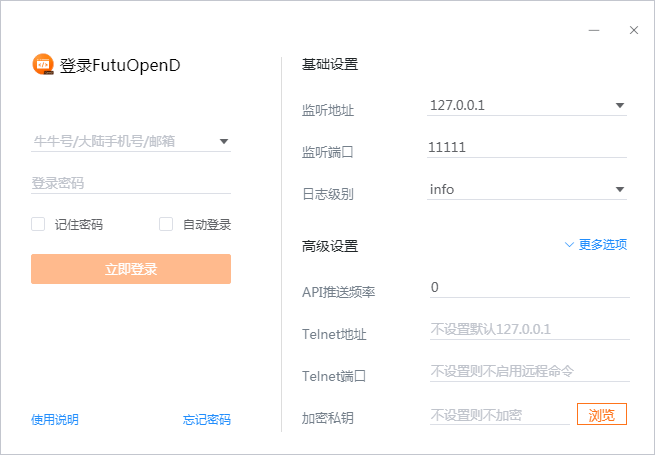
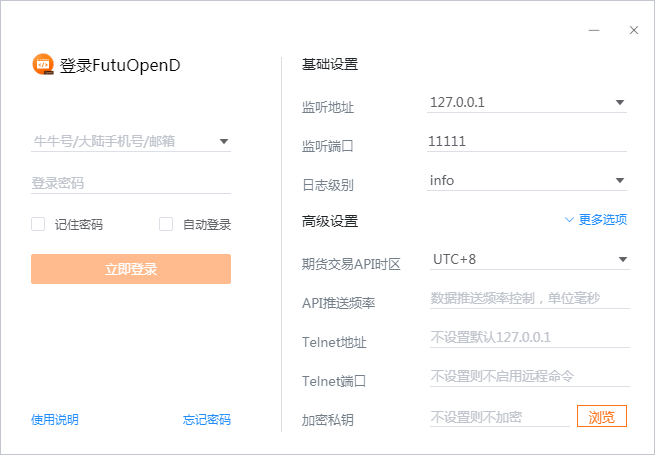
新增期货交易API时区说明

diff --git a/doc_maker/source/intro/FutuOpenDGuide.rst b/doc_maker/source/intro/FutuOpenDGuide.rst
@@ -70,6 +70,8 @@ FutuOpenD使用说明
 
 ----------------------------
   
+.. _opend-config:
+
 FutuOpenD配置
 --------------
 
@@ -81,29 +83,30 @@ FutuOpenD配置
 
   **配置项：**
   
-  ========================   =============================================================================================================================================================   ================================================
-  键值                       说明                                                                                                                                                            是否可选配置项
-  ========================   =============================================================================================================================================================   ================================================
-  ip                         监听地址                                                                                                                                                        是，不设置则默认127.0.0.1    
-  api_port                   API协议接收端口                                                                                                                                                 是，可以命令行指定
-  push_proto_type            API协议支持PB以及Json格式，PB：0，Json：1，推送类协议通过该配置决定包体格式                                                                                     是，不设置则默认PB格式
-  qot_push_frequency         API订阅数据推送频率控制，单位毫秒，目前不包括K线和分时                                                                                                          是，不设置则不限制频率
-  rsa_private_key            API协议RSA加密私钥（PKCS#1）文件绝对路径                                                                                                                        是，不设置则协议不加密
-  telnet_ip                  远程操作命令监听地址                                                                                                                                            是，不设置则默认127.0.0.1    
-  telnet_port                远程操作命令监听端口                                                                                                                                            是，不设置则不启用远程命令
-  login_account              登录帐号                                                                                                                                                        是，可以使用证书登录或命令行输入
-  login_pwd                  登录密码明文                                                                                                                                                    是，可以使用密文、证书登录或命令行输入
-  login_pwd_md5              登录密码密文（32位MD5加密16进制），密文明文都存在情况下，只使用密文                                                                                             是，可以使用明文、证书登录或命令行输入
-  log_level                  日志级别，可填no(无日志)，debug(最详细)，info(次详细)，warning，error，fatal                                                                                    是，默认info级别
-  simulate_trade             是否启用模拟交易，关闭模拟交易可节省少量资源使用，可填enable，disable                                                                                           是，默认启用
-  websocket_ip               API协议监听地址，可选127.0.0.1（监听来自本地的连接）以及0.0.0.0（监听来自所有网卡的连接）                                                                       是，不设置则默认127.0.0.1 
-  websocket_port             WebSocket服务监听端口                                                                                                                                           是，不设置则不启用该功能  
-  websocket_private_key      WebSocket证书私钥文件路径，私钥不可设置密码，不配置则不启用SSL，需要和证书同时配置                                                                              是，不设置则不启用SSL
-  websocket_cert             WebSocket证书文件路径，不配置则不启用SSL，需要和私钥同时配置                                                                                                    是，不设置则不启用SSL
-  websocket_key_md5          密钥密文（32位MD5加密16进制），用于JS接口连接时用于判断是否可信连接                                                                                             是，不设置则不做验证
-  price_reminder_push        是否接收到价提醒推送，0：不接收，1：接收（需在脚本中设置回调函数 set_handler_ )                                                                                 是，默认会推送
-  auto_hold_quote_right      被踢后是否自动抢权限？0：否，1：是，开启该选项时，OpenD在行情权限被抢后，会自动抢回。如果10秒内再次被抢，则其他终端获得最高行情权限（OpenD不会再抢）            是，默认会自动抢权限
-  ========================   =============================================================================================================================================================   ================================================
+  ===========================   =============================================================================================================================================================   ================================================
+  键值                          说明                                                                                                                                                            是否可选配置项
+  ===========================   =============================================================================================================================================================   ================================================
+  ip                            监听地址                                                                                                                                                        是，不设置则默认127.0.0.1    
+  api_port                      API协议接收端口                                                                                                                                                 是，可以命令行指定
+  push_proto_type               API协议支持PB以及Json格式，PB：0，Json：1，推送类协议通过该配置决定包体格式                                                                                     是，不设置则默认PB格式
+  qot_push_frequency            API订阅数据推送频率控制，单位毫秒，目前不包括K线和分时                                                                                                          是，不设置则不限制频率
+  rsa_private_key               API协议RSA加密私钥（PKCS#1）文件绝对路径                                                                                                                        是，不设置则协议不加密
+  telnet_ip                     远程操作命令监听地址                                                                                                                                            是，不设置则默认127.0.0.1    
+  telnet_port                   远程操作命令监听端口                                                                                                                                            是，不设置则不启用远程命令
+  login_account                 登录帐号                                                                                                                                                        是，可以使用证书登录或命令行输入
+  login_pwd                     登录密码明文                                                                                                                                                    是，可以使用密文、证书登录或命令行输入
+  login_pwd_md5                 登录密码密文（32位MD5加密16进制），密文明文都存在情况下，只使用密文                                                                                             是，可以使用明文、证书登录或命令行输入
+  log_level                     日志级别，可填no(无日志)，debug(最详细)，info(次详细)，warning，error，fatal                                                                                    是，默认info级别
+  simulate_trade                是否启用模拟交易，关闭模拟交易可节省少量资源使用，可填enable，disable                                                                                           是，默认启用
+  websocket_ip                  API协议监听地址，可选127.0.0.1（监听来自本地的连接）以及0.0.0.0（监听来自所有网卡的连接）                                                                       是，不设置则默认127.0.0.1 
+  websocket_port                WebSocket服务监听端口                                                                                                                                           是，不设置则不启用该功能  
+  websocket_private_key         WebSocket证书私钥文件路径，私钥不可设置密码，不配置则不启用SSL，需要和证书同时配置                                                                              是，不设置则不启用SSL
+  websocket_cert                WebSocket证书文件路径，不配置则不启用SSL，需要和私钥同时配置                                                                                                    是，不设置则不启用SSL
+  websocket_key_md5             密钥密文（32位MD5加密16进制），用于JS接口连接时用于判断是否可信连接                                                                                             是，不设置则不做验证
+  price_reminder_push           是否接收到价提醒推送，0：不接收，1：接收（需在脚本中设置回调函数 set_handler_ )                                                                                 是，默认会推送
+  auto_hold_quote_right         被踢后是否自动抢权限？0：否，1：是，开启该选项时，OpenD在行情权限被抢后，会自动抢回。如果10秒内再次被抢，则其他终端获得最高行情权限（OpenD不会再抢）            是，默认会自动抢权限
+  future_trade_api_time_zone    指定期货交易API时区，期货账户调用交易API时，涉及的时间按照此时区规则                                                                                            是，可以命令行指定，不设置则默认交易所时区
+  ===========================   =============================================================================================================================================================   ================================================
 
 可视化FutuOpenD  
 ~~~~~~~~~~~~~~~~~~ 
@@ -128,6 +131,7 @@ FutuOpenD配置
   WebSocket证书          WebSocket证书文件路径，不配置则不启用SSL，需要和私钥同时配置
   WebSocket私钥          WebSocket证书私钥文件路径，私钥不可设置密码，不配置则不启用SSL，需要和证书同时配置
   WebSocket鉴权密钥      密钥密文（32位MD5加密16进制），用于JS接口连接时用于判断是否可信连接
+  期货交易API时区        指定期货交易API时区，期货账户调用交易API时，涉及的时间按照此时区规则             
   ====================   =================================================================================================================
   
 .. note::    
@@ -163,32 +167,33 @@ FutuOpenD配置
   
   **参数项：**
   
-  ========================   =====================================================================================================================================================   ================================================
-  键值                       说明                                                                                                                                                    是否可选配置项
-  ========================   =====================================================================================================================================================   ================================================
-  login_account              登录帐号                                                                                                                                                是，可以使用证书登录或配置文件配置项
-  login_pwd                  登录密码明文                                                                                                                                            是，可以使用证书登录或配置文件配置项
-  login_pwd_md5              登录密码密文（32位MD5加密16进制），密文明文都存在情况下，只使用密文                                                                                     是，可以使用密文、证书登录或配置文件配置项
-  login_by_remember          记住密码登录，需要搭配帐号使用，当密码参数存在，忽略该参数                                                                                              是，可以使用帐号密码登录或命令行输入
-  remember                   记住密码，当该参数不设置时，已记住密码的帐号继续记住，需要取消记住密码，需要明确传入-remember=0                                                         是，不设置保留当前帐号的记住密码状态
-  login_region               优先连接点区域，但不一定能连接上该区域连接点(gz/sh/hk)                                                                                                  是，不设置则自动选择
-  cfg_file                   FutuOpenD配置文件绝对路径                                                                                                                               是，不设置则使用程序所在目录下的FutuOpenD.xml
-  console                    是否显示控制台，后台运行：0，控制台运行：1                                                                                                              是，不设置则默认控制台运行
-  lang                       FutuOpenD语言，en：英文，chs：简体中文                                                                                                                  是，不设置则默认简体中文
-  api_ip                     API服务监听地址                                                                                                                                         是，不设置则默认127.0.0.1   
-  api_port                   API协议接收端口                                                                                                                                         是，不设置则使用配置文件配置项
-  help                       输出启动命令行参数然后退出程序                                                                                                                          是，不设置则正常启动FutuOpenD
-  log_level                  日志级别，可填no(无日志)，debug(最详细)，info(次详细)，warning，error，fatal                                                                            是，默认info级别
-  no_monitor                 是否启动守护进程，启动：0，不启动：1                                                                                                                    是，默认带守护进程启动
-  simulate_trade             是否启用模拟交易，关闭模拟交易可节省少量资源使用，可填enable，disable                                                                                   是，默认启用
-  websocket_ip               WebSocket服务监听地址，可选127.0.0.1（监听来自本地的连接）以及0.0.0.0（监听来自所有网卡的连接）                                                         是，不设置则默认127.0.0.1    
-  websocket_port             WebSocket服务监听端口                                                                                                                                   是，不设置则不启用该功能
-  websocket_private_key      WebSocket证书私钥文件路径，不配置则不启用SSL，需要和证书同时配置                                                                                        是，不设置则不启用SSL
-  websocket_cert             WebSocket证书文件路径，不配置则不启用SSL，需要和私钥同时配置                                                                                            是，不设置则不启用SSL
-  websocket_key_md5          密钥密文（32位MD5加密16进制），用于JS接口连接时用于判断是否可信连接                                                                                     是，不设置则不做验证
-  price_reminder_push        是否接收到价提醒推送，0：不接收，1：接收（需在脚本中设置回调函数 set_handler_ )                                                                         是，默认会推送
-  auto_hold_quote_right      被踢后是否自动抢权限？0：否，1：是，开启该选项时，OpenD在行情权限被抢后，会自动抢回。如果10秒内再次被抢，则其他终端获得最高行情权限（OpenD不会再抢）    是，默认会自动抢权限
-  ========================   =====================================================================================================================================================   ================================================
+  ===========================   =====================================================================================================================================================   ================================================
+  键值                          说明                                                                                                                                                    是否可选配置项
+  ===========================   =====================================================================================================================================================   ================================================
+  login_account                 登录帐号                                                                                                                                                是，可以使用证书登录或配置文件配置项
+  login_pwd                     登录密码明文                                                                                                                                            是，可以使用证书登录或配置文件配置项
+  login_pwd_md5                 登录密码密文（32位MD5加密16进制），密文明文都存在情况下，只使用密文                                                                                     是，可以使用密文、证书登录或配置文件配置项
+  login_by_remember             记住密码登录，需要搭配帐号使用，当密码参数存在，忽略该参数                                                                                              是，可以使用帐号密码登录或命令行输入
+  remember                      记住密码，当该参数不设置时，已记住密码的帐号继续记住，需要取消记住密码，需要明确传入-remember=0                                                         是，不设置保留当前帐号的记住密码状态
+  login_region                  优先连接点区域，但不一定能连接上该区域连接点(gz/sh/hk)                                                                                                  是，不设置则自动选择
+  cfg_file                      FutuOpenD配置文件绝对路径                                                                                                                               是，不设置则使用程序所在目录下的FutuOpenD.xml
+  console                       是否显示控制台，后台运行：0，控制台运行：1                                                                                                              是，不设置则默认控制台运行
+  lang                          FutuOpenD语言，en：英文，chs：简体中文                                                                                                                  是，不设置则默认简体中文
+  api_ip                        API服务监听地址                                                                                                                                         是，不设置则默认127.0.0.1   
+  api_port                      API协议接收端口                                                                                                                                         是，不设置则使用配置文件配置项
+  help                          输出启动命令行参数然后退出程序                                                                                                                          是，不设置则正常启动FutuOpenD
+  log_level                     日志级别，可填no(无日志)，debug(最详细)，info(次详细)，warning，error，fatal                                                                            是，默认info级别
+  no_monitor                    是否启动守护进程，启动：0，不启动：1                                                                                                                    是，默认带守护进程启动
+  simulate_trade                是否启用模拟交易，关闭模拟交易可节省少量资源使用，可填enable，disable                                                                                   是，默认启用
+  websocket_ip                  WebSocket服务监听地址，可选127.0.0.1（监听来自本地的连接）以及0.0.0.0（监听来自所有网卡的连接）                                                         是，不设置则默认127.0.0.1    
+  websocket_port                WebSocket服务监听端口                                                                                                                                   是，不设置则不启用该功能
+  websocket_private_key         WebSocket证书私钥文件路径，不配置则不启用SSL，需要和证书同时配置                                                                                        是，不设置则不启用SSL
+  websocket_cert                WebSocket证书文件路径，不配置则不启用SSL，需要和私钥同时配置                                                                                            是，不设置则不启用SSL
+  websocket_key_md5             密钥密文（32位MD5加密16进制），用于JS接口连接时用于判断是否可信连接                                                                                     是，不设置则不做验证
+  price_reminder_push           是否接收到价提醒推送，0：不接收，1：接收（需在脚本中设置回调函数 set_handler_ )                                                                         是，默认会推送
+  auto_hold_quote_right         被踢后是否自动抢权限？0：否，1：是，开启该选项时，OpenD在行情权限被抢后，会自动抢回。如果10秒内再次被抢，则其他终端获得最高行情权限（OpenD不会再抢）    是，默认会自动抢权限
+  future_trade_api_time_zone    指定期货交易API时区，期货账户调用交易API时，涉及的时间按照此时区规则                                                                                    是，可以命令行指定，不设置则默认交易所时区
+  ===========================   =====================================================================================================================================================   ================================================
 
 --------------
 

diff --git a/doc_maker/source/api/Trade_API.rst b/doc_maker/source/api/Trade_API.rst
@@ -293,17 +293,17 @@ order_list_query - 获取订单列表
  :param order_id: str，订单号过滤，只返回此订单号的数据，没传不过滤，返回所有
  :param status_filter_list: str数组，订单状态过滤，只返回这些状态的订单数据，没传不过滤，返回所有，参考 OrderStatus_ 类的定义
  :param code: str，代码过滤，只返回包含这个代码的数据，没传不过滤，返回所有
- :param start: str，开始时间，严格按YYYY-MM-DD HH:MM:SS或YYYY-MM-DD HH:MM:SS.MS格式传
- :param end: str，结束时间，严格按YYYY-MM-DD HH:MM:SS或YYYY-MM-DD HH:MM:SS.MS格式传
+ :param start: str，开始时间，严格按YYYY-MM-DD HH:MM:SS或YYYY-MM-DD HH:MM:SS.MS格式传，期货时区指定，请参见 :ref:`FutuOpenD启动参数配置 <opend-config>`
+ :param end: str，结束时间，严格按YYYY-MM-DD HH:MM:SS或YYYY-MM-DD HH:MM:SS.MS格式传，期货时区指定，请参见 :ref:`FutuOpenD启动参数配置 <opend-config>`
  :param trd_env: str，交易环境 TrdEnv_ ，TrdEnv.REAL(真实环境)或TrdEnv.SIMULATE(仿真环境)
  :param acc_id: int，交易业务账户ID，acc_id为ID号时以acc_id为准，传0使用acc_index所对应的账户
  :param acc_index: int，交易业务子账户ID列表所对应的下标，默认0，表示第1个业务ID
  :param refresh_cache: bool, True表示立即向server重新请求数据，而不是使用OpenD的缓存，此时会受到 :ref:`频率限制 <order-list-query-limit>`。默认False。特殊情况导致缓存没有及时更新才需要刷新。
  :return(ret_code, ret_data): ret_code为RET_OK时，ret_data为DataFrame数据，否则为错误原因字符串，DataFrame数据如下：
 
- =====================        ===========   =======================================================================
+ =====================        ===========   ============================================================================================================================================================
  参数                         类型          说明
- =====================        ===========   =======================================================================
+ =====================        ===========   ============================================================================================================================================================
  trd_side                     str           交易方向，参考 TrdSide_ 类的定义
  order_type                   str           订单类型，参考 OrderType_ 类的定义。OpenHKCCTradeContext仅返回NORMAL
  order_status                 str           订单状态，参考 OrderStatus_ 类的定义。OpenHKCCTradeContext没有DISABLED
@@ -312,13 +312,13 @@ order_list_query - 获取订单列表
  stock_name                   str           名称
  qty                          float         订单数量，整数，期权单位是"张"
  price                        float         订单价格，3位小数，超过四舍五入
- create_time                  str           创建时间，严格按YYYY-MM-DD HH:MM:SS或YYYY-MM-DD HH:MM:SS.MS格式传
- updated_time                 str        	  最后更新时间，严格按YYYY-MM-DD HH:MM:SS或YYYY-MM-DD HH:MM:SS.MS格式传
+ create_time                  str           创建时间，严格按YYYY-MM-DD HH:MM:SS或YYYY-MM-DD HH:MM:SS.MS格式传，期货时区指定，请参见 :ref:`FutuOpenD启动参数配置 <opend-config>`
+ updated_time                 str        	  最后更新时间，严格按YYYY-MM-DD HH:MM:SS或YYYY-MM-DD HH:MM:SS.MS格式传，期货时区指定，请参见 :ref:`FutuOpenD启动参数配置 <opend-config>`
  dealt_qty                    float         成交数量，整数，期权单位是"张"
  dealt_avg_price              float         成交均价，无精度限制
  last_err_msg                 str           最后的错误描述，如果有错误，会有此描述最后一次错误的原因，无错误为空
  remark                       str           备注，详见 place_order_ 的说明。
- =====================        ===========   =======================================================================
+ =====================        ===========   ============================================================================================================================================================
  
  :example:
  
@@ -459,9 +459,9 @@ deal_list_query - 获取成交列表
  :param refresh_cache: bool, True表示立即向server重新请求数据，而不是使用OpenD的缓存，此时会受到 :ref:`频率限制 <deal-list-query-limit>`。默认False。特殊情况导致缓存没有及时更新才需要刷新。
  :return(ret_code, ret_data): ret_code为RET_OK时，ret_data为DataFrame数据，否则为错误原因字符串，DataFrame数据如下：
 
- =====================        ===========   ===================================================================
+ =====================        ===========   ========================================================================================================================================
  参数                         类型          说明
- =====================        ===========   ===================================================================
+ =====================        ===========   ========================================================================================================================================
  trd_side                     str           交易方向，参考 TrdSide_ 类的定义
  deal_id                      str           成交号
  order_id                     str           订单号
@@ -469,11 +469,11 @@ deal_list_query - 获取成交列表
  stock_name                   str           名称
  qty                          float         成交数量，整数，期权单位是"张"
  price                        float         成交价格，3位小数，超过四舍五入
- create_time                  str           创建时间，严格按YYYY-MM-DD HH:MM:SS或YYYY-MM-DD HH:MM:SS.MS格式传
+ create_time                  str           创建时间，严格按YYYY-MM-DD HH:MM:SS或YYYY-MM-DD HH:MM:SS.MS格式传，期货时区指定，请参见 :ref:`FutuOpenD启动参数配置 <opend-config>`
  counter_broker_id            int           对手经纪号，港股有效。OpenHKCCTradeContext无此字段
  counter_broker_name          str         	对手经纪名称，港股有效。OpenHKCCTradeContext无此字段
  status                       str           成交状态，见 DealStatus_
- =====================        ===========   ===================================================================
+ =====================        ===========   ========================================================================================================================================
  
  :example:
  
@@ -498,8 +498,8 @@ history_order_list_query - 获取历史订单列表
 
  :param status_filter_list: str数组，订单状态过滤，只返回这些状态的订单数据，没传不过滤，返回所有，参考 OrderStatus_ 类的定义
  :param code: str，代码过滤，只返回包含这个代码的数据，没传不过滤，返回所有
- :param start: str，开始时间，严格按YYYY-MM-DD HH:MM:SS或YYYY-MM-DD HH:MM:SS.MS格式传
- :param end: str，结束时间，严格按YYYY-MM-DD HH:MM:SS或YYYY-MM-DD HH:MM:SS.MS格式传
+ :param start: str，开始时间，严格按YYYY-MM-DD HH:MM:SS或YYYY-MM-DD HH:MM:SS.MS格式传，期货时区指定，请参见 :ref:`FutuOpenD启动参数配置 <opend-config>`
+ :param end: str，结束时间，严格按YYYY-MM-DD HH:MM:SS或YYYY-MM-DD HH:MM:SS.MS格式传，期货时区指定，请参见 :ref:`FutuOpenD启动参数配置 <opend-config>`
  :param trd_env: str，交易环境 TrdEnv_ ，TrdEnv.REAL(真实环境)或TrdEnv.SIMULATE(仿真环境)
  :param acc_id: int，交易业务账户ID，acc_id为ID号时以acc_id为准，传0使用acc_index所对应的账户
  :param acc_index: int，交易业务子账户ID列表所对应的下标，默认0，表示第1个业务ID
@@ -531,8 +531,8 @@ history_deal_list_query - 获取历史成交列表
  获取历史成交列表。获取账户的历史交易成交列表。
 
  :param code: str，代码过滤，只返回包含这个代码的数据，没传不过滤，返回所有
- :param start: str，开始时间，严格按YYYY-MM-DD HH:MM:SS或YYYY-MM-DD HH:MM:SS.MS格式传
- :param end: str，结束时间，严格按YYYY-MM-DD HH:MM:SS或YYYY-MM-DD HH:MM:SS.MS格式传
+ :param start: str，开始时间，严格按YYYY-MM-DD HH:MM:SS或YYYY-MM-DD HH:MM:SS.MS格式传，期货时区指定，请参见 :ref:`FutuOpenD启动参数配置 <opend-config>`
+ :param end: str，结束时间，严格按YYYY-MM-DD HH:MM:SS或YYYY-MM-DD HH:MM:SS.MS格式传，期货时区指定，请参见 :ref:`FutuOpenD启动参数配置 <opend-config>`
  :param trd_env: str，交易环境 TrdEnv_ ，仅支持TrdEnv.REAL(真实环境)，仿真环境暂不支持成交数据
  :param acc_id: int，交易业务账户ID，acc_id为ID号时以acc_id为准，传0使用acc_index所对应的账户
  :param acc_index: int，交易业务子账户ID列表所对应的下标，默认0，表示第1个业务ID
